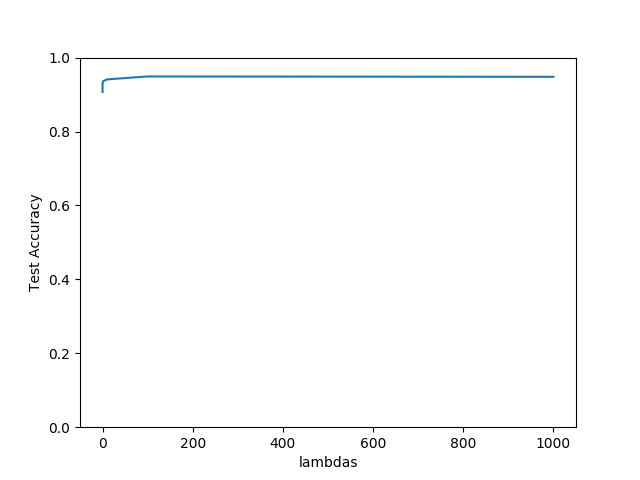
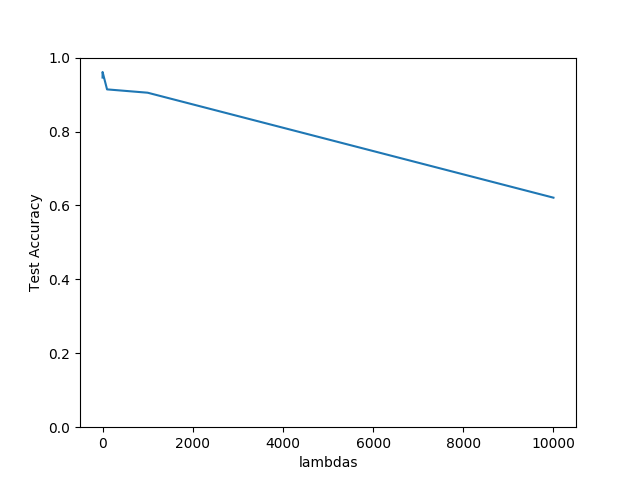
finished up

diff --git a/q2_3.py b/q2_3.py
@@ -16,7 +16,7 @@ test_csv_name=sys.argv[2]
 lambdas=list(map(float,sys.argv[3].split(',')))
 print(lambdas)
 
-learning_rate=0.0001
+learning_rate=0.01
 train_X,train_Y=[],[]
 test_X,test_Y=[],[]
 
@@ -76,10 +76,11 @@ def calAccuracy(data_x,data_y):
     w_transpose=np.transpose(w)
     for i in range(0,len(data_x)):
         predict_x=np.matmul(w_transpose,data_x[i])
-        # print(predict_x)
-        if(predict_x>=0 and data_y[i]==1):
+        predict_y=sigmoid(predict_x)
+        # print(predict_y)
+        if(predict_y>=0.5 and data_y[i]==1):
             accuracy+=1
-        if(predict_x<0 and data_y[i]==0):
+        if(predict_y<0.5 and data_y[i]==0):
             accuracy+=1
     accuracy=accuracy/len(data_x)
     accuracy=round(accuracy,3)
@@ -87,7 +88,6 @@ def calAccuracy(data_x,data_y):
     
 #main function
 readfile()
-w=[0]*257
 
 
 x=[]
@@ -96,10 +96,12 @@ y2=[]
 
 for lambd in lambdas:
     print("lambda: ",lambd)
-    for iter in range(0,10):
-        print("doing "+str(iter)+" iteration")
-        w=gradientDescent(w,lambd)
-
+    w=[0]*257
+    for iter in range(0,100):
+        # print("doing "+str(iter)+" iteration")
+        neww=gradientDescent(w,lambd)
+        w=neww
+    # print(w)
     A1=calAccuracy(train_X,train_Y)
     A2=calAccuracy(test_X,test_Y)
     x.append(lambd)
